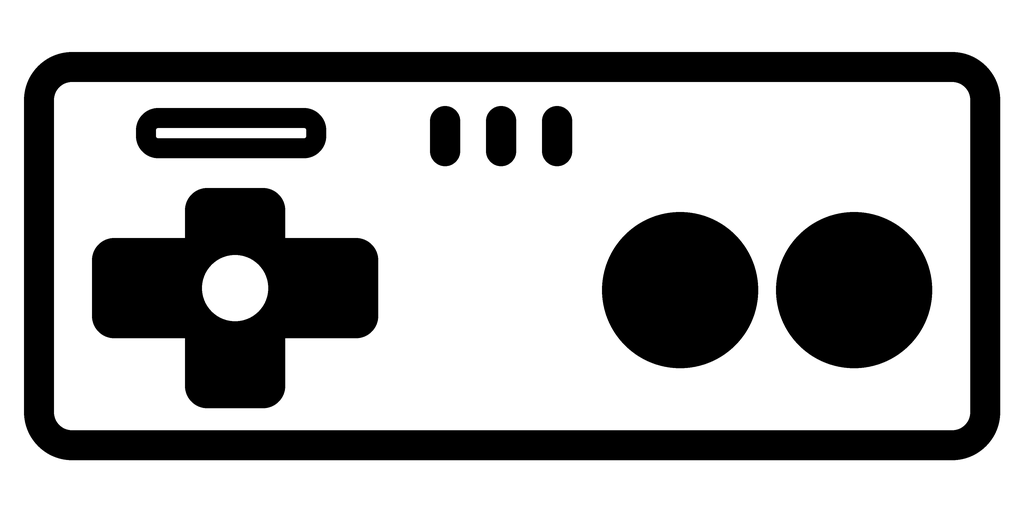
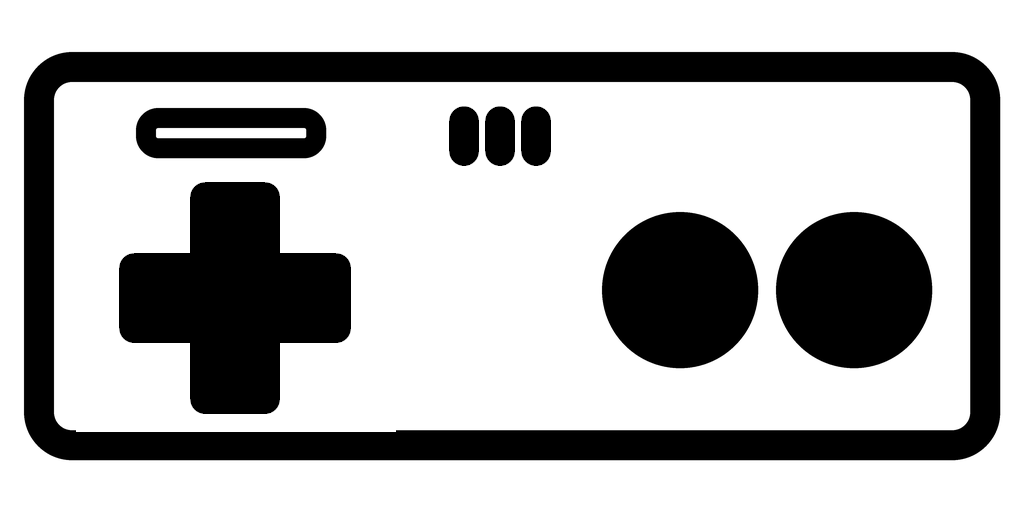
Release v0.5.6

diff --git a/Views/AdvancedModeEditorWindow.xaml b/Views/AdvancedModeEditorWindow.xaml
@@ -2,7 +2,7 @@
         xmlns="http://schemas.microsoft.com/winfx/2006/xaml/presentation"
         xmlns:x="http://schemas.microsoft.com/winfx/2006/xaml"
         xmlns:loc="clr-namespace:PCModeSwitcher.Services"
-        Title="{loc:Loc Editor.Title}" Width="940" Height="760" MinWidth="820" MinHeight="650"
+        Title="{loc:Loc Editor.Title}" Width="940" Height="680" MinWidth="720" MinHeight="560"
         WindowStartupLocation="CenterOwner" ShowInTaskbar="False">
   <Window.Resources><BooleanToVisibilityConverter x:Key="BoolVisibility"/></Window.Resources>
   <Grid Margin="22">
@@ -15,7 +15,36 @@
             <RowDefinition Height="Auto"/><RowDefinition Height="Auto"/><RowDefinition Height="Auto"/><RowDefinition Height="Auto"/>
           </Grid.RowDefinitions>
           <TextBlock Text="{loc:Loc Advanced.ModeName}" Margin="0,9"/><TextBox Grid.Column="1" Text="{Binding ModeName, UpdateSourceTrigger=PropertyChanged}" Margin="0,5"/>
-          <TextBlock Grid.Row="1" Text="{loc:Loc Advanced.Icon}" Margin="0,9"/><TextBox Grid.Row="1" Grid.Column="1" Text="{Binding ModeIcon}" Margin="0,5"/>
+          <TextBlock Grid.Row="1" Text="{loc:Loc Advanced.Icon}" Margin="0,9"/>
+          <Grid Grid.Row="1" Grid.Column="1" Margin="0,5">
+            <TextBox Text="{Binding ModeIcon, UpdateSourceTrigger=PropertyChanged}">
+              <TextBox.Style>
+                <Style TargetType="TextBox">
+                  <Style.Triggers>
+                    <DataTrigger Binding="{Binding HasCustomModeIcon}" Value="True">
+                      <Setter Property="Visibility" Value="Collapsed"/>
+                    </DataTrigger>
+                  </Style.Triggers>
+                </Style>
+              </TextBox.Style>
+            </TextBox>
+            <TextBox IsReadOnly="True" Focusable="False" IsTabStop="False" MinHeight="38">
+              <TextBox.Style>
+                <Style TargetType="TextBox">
+                  <Setter Property="Visibility" Value="Collapsed"/>
+                  <Style.Triggers>
+                    <DataTrigger Binding="{Binding HasCustomModeIcon}" Value="True">
+                      <Setter Property="Visibility" Value="Visible"/>
+                    </DataTrigger>
+                  </Style.Triggers>
+                </Style>
+              </TextBox.Style>
+            </TextBox>
+            <Image Source="{Binding CustomModeIconSource}" Width="72" Height="30"
+                   Margin="6,0,0,0" HorizontalAlignment="Left" VerticalAlignment="Center"
+                   Panel.ZIndex="1" IsHitTestVisible="False" Stretch="Uniform"
+                   Visibility="{Binding HasCustomModeIcon, Converter={StaticResource BoolVisibility}}"/>
+          </Grid>
           <TextBlock Grid.Row="2" Text="{loc:Loc Advanced.Status}" Margin="0,9"/><CheckBox Grid.Row="2" Grid.Column="1" Content="{loc:Loc Advanced.EnableMode}" IsChecked="{Binding IsModeEnabled}" Margin="0,8"/>
           <TextBlock Grid.Row="3" Grid.ColumnSpan="2" Margin="0,22,0,0" TextWrapping="Wrap"
                      Foreground="{StaticResource MutedBrush}" Text="{loc:Loc Advanced.RestoreDescription}"/>

diff --git a/tests/PCModeSwitcher.Tests/Program.cs b/tests/PCModeSwitcher.Tests/Program.cs
@@ -7,10 +7,12 @@ var tests = new List<(string Name, Func<Task> Run)>
 {
     ("既定の9モードと5モード表示", TestDefaultModesAsync),
     ("GAME uses the II-controller image", TestGameModeIconAssetAsync),
-    ("ゲームパッド絵文字をⅡコン表記へ移行", TestGamepadEmojiMigrationAsync),
+    ("ゲームパッド絵文字をⅡコン画像へ移行", TestGamepadEmojiMigrationAsync),
     ("Support link accepts only the trusted HTTPS Ko-fi host", TestSupportLinkValidationAsync),
     ("Tray prioritizes the main screen mode order", TestTrayModeOrderAsync),
     ("リフレッシュレート表示は一方向バインド", TestRefreshRateBindingAsync),
+    ("モード編集で専用アイコン画像を表示", TestAdvancedEditorCustomIconAsync),
+    ("モード編集画面が小さい画面へ収まる", TestAdvancedEditorWindowSizeAsync),
     ("モード編集をキャンセルしても元データを変更しない", TestAdvancedModeEditSessionIsolationAsync),
     ("設定の保存と再読み込み", TestSettingsRoundTripAsync),
     ("保存失敗時にモード追加と編集を巻き戻す", TestModeSaveFailureRollbackAsync),
@@ -104,10 +106,14 @@ static Task TestDefaultModesAsync()
     Assert(settings.Modes.Skip(3).Select(mode => mode.Name)
             .SequenceEqual(["CUSTOM1", "CUSTOM2", "CUSTOM3", "CUSTOM4", "CUSTOM5", "CUSTOM6"]),
         "CUSTOM1〜6の既定名が正しくありません。");
-    Assert(settings.Modes.Take(3).Select(mode => mode.Icon).SequenceEqual(["Ⅱコン", "💼", "🖥"]),
+    Assert(settings.Modes.Take(3).Select(mode => mode.Icon).SequenceEqual([ModeIconKeys.IiController, "💼", "🖥"]),
         "GAME・WORK・NORMALの既定アイコンが変わっています。");
     Assert(settings.Modes.Skip(3).All(mode => mode.Icon.EndsWith('\uFE0E')),
         "CUSTOM1〜6のアイコンがモノクロの文字表示指定になっていません。");
+    Assert(settings.Modes.Skip(3).All(mode =>
+            ModeIconAssets.HasCustomIcon(mode.Id, mode.Icon) &&
+            ModeIconAssets.GetCustomIconSource(mode.Id, mode.Icon) is not null),
+        "CUSTOM1〜6の十二支画像が専用アイコンとして登録されていません。");
     Assert(settings.Modes.All(mode => mode.MicrophoneMute == MicrophoneMuteSetting.NoChange),
         "マイク設定の既定値が『変更しない』ではありません。");
     Assert(settings.Hotkeys.Count == 9 && settings.Hotkeys.All(hotkey => !hotkey.IsConfigured),
@@ -123,6 +129,9 @@ static Task TestGameModeIconAssetAsync()
         "GAME is not registered as an image icon.");
     Assert(ModeIconAssets.GetCustomIconSource("GAME") == "/Assets/GameModeIcon.png",
         "GAME does not reference the II-controller image.");
+    Assert(ModeIconAssets.GetCustomIconSource("user-mode", ModeIconKeys.IiController) ==
+           "/Assets/GameModeIcon.png",
+        "The II-controller icon key does not reference the image asset.");
     return Task.CompletedTask;
 }
 
@@ -144,8 +153,8 @@ static async Task TestGamepadEmojiMigrationAsync()
             "旧ゲームパッドアイコンを含む設定を再読み込みできませんでした。");
         var migrated = loaded.Value ?? throw new InvalidOperationException("移行後の設定データがありません。");
         Assert(migrated.Modes.Take(3).Select(mode => mode.Icon)
-                .SequenceEqual(["Ⅱコン", "Ⅱコン", "前Ⅱコン後"]),
-            "通常・白黒・カラーのゲームパッド絵文字がすべてⅡコン表記へ移行されていません。");
+                .All(icon => icon == ModeIconKeys.IiController),
+            "通常・白黒・カラーのゲームパッド絵文字がすべてⅡコン画像キーへ移行されていません。");
     }
     finally
     {
@@ -207,6 +216,54 @@ static Task TestRefreshRateBindingAsync()
            itemBinding.Contains("Path=.", StringComparison.Ordinal) &&
            itemBinding.Contains("Mode=OneWay", StringComparison.Ordinal),
         "リフレッシュレート項目の値が、パスなしのTwoWayバインドへ戻っています。");
+    return Task.CompletedTask;
+}
+
+static Task TestAdvancedEditorCustomIconAsync()
+{
+    var xamlPath = Path.Combine(
+        AppContext.BaseDirectory,
+        "TestAssets",
+        "AdvancedModeEditorWindow.xaml");
+    var document = System.Xml.Linq.XDocument.Load(xamlPath);
+    var customImage = document.Descendants()
+        .SingleOrDefault(element => element.Name.LocalName == "Image" &&
+            ((string?)element.Attribute("Source"))?.Contains("CustomModeIconSource", StringComparison.Ordinal) == true);
+    var customIconFrame = document.Descendants()
+        .SingleOrDefault(element => element.Name.LocalName == "TextBox" &&
+            (string?)element.Attribute("IsReadOnly") == "True");
+    var hidesIconText = document.Descendants()
+        .Any(element => element.Name.LocalName == "DataTrigger" &&
+            ((string?)element.Attribute("Binding"))?.Contains("HasCustomModeIcon", StringComparison.Ordinal) == true &&
+            element.Descendants().Any(child => child.Name.LocalName == "Setter" &&
+                (string?)child.Attribute("Property") == "Visibility" &&
+                (string?)child.Attribute("Value") == "Collapsed"));
+
+    Assert(customImage is not null &&
+           (string?)customImage.Attribute("Width") == "72" &&
+           (string?)customImage.Attribute("Height") == "30" &&
+           customIconFrame is not null &&
+           (string?)customIconFrame.Attribute("MinHeight") == "38" &&
+           hidesIconText,
+        "モード編集画面が専用アイコンをテキストボックス枠内へ画像表示していません。");
+    return Task.CompletedTask;
+}
+
+static Task TestAdvancedEditorWindowSizeAsync()
+{
+    var xamlPath = Path.Combine(
+        AppContext.BaseDirectory,
+        "TestAssets",
+        "AdvancedModeEditorWindow.xaml");
+    var window = System.Xml.Linq.XDocument.Load(xamlPath).Root
+        ?? throw new InvalidOperationException("モード編集画面のXAMLを読み込めませんでした。");
+    var height = double.Parse((string?)window.Attribute("Height") ?? "0",
+        System.Globalization.CultureInfo.InvariantCulture);
+    var minimumHeight = double.Parse((string?)window.Attribute("MinHeight") ?? "0",
+        System.Globalization.CultureInfo.InvariantCulture);
+
+    Assert(height <= 680 && minimumHeight <= 560,
+        "モード編集画面の固定高さが小さい画面の作業領域を越えます。");
     return Task.CompletedTask;
 }
 

diff --git a/ViewModels/ModeIconAssets.cs b/ViewModels/ModeIconAssets.cs
@@ -1,25 +1,35 @@
+using PCModeSwitcher.Models;
+
 namespace PCModeSwitcher.ViewModels;
 
 public static class ModeIconAssets
 {
-    public static bool HasCustomIcon(string? modeId) =>
-        GetCustomIconSource(modeId) is not null;
+    private const string IiControllerSource = "/Assets/GameModeIcon.png";
 
-    public static string? GetCustomIconSource(string? modeId) => modeId?.ToLowerInvariant() switch
+    public static bool HasCustomIcon(string? modeId, string? icon = null) =>
+        GetCustomIconSource(modeId, icon) is not null;
+
+    public static string? GetCustomIconSource(string? modeId, string? icon = null)
     {
-        "game" => "/Assets/GameModeIcon.png",
-        "custom1" => "/Assets/FluentEmojiHighContrast/Custom1Icon.png",
-        "custom2" => "/Assets/FluentEmojiHighContrast/Custom2Icon.png",
-        "custom3" => "/Assets/FluentEmojiHighContrast/Custom3Icon.png",
-        "custom4" => "/Assets/FluentEmojiHighContrast/Custom4Icon.png",
-        "custom5" => "/Assets/FluentEmojiHighContrast/Custom5Icon.png",
-        "custom6" => "/Assets/FluentEmojiHighContrast/Custom6Icon.png",
-        "custom7" => "/Assets/FluentEmojiHighContrast/Custom7Icon.png",
-        "custom8" => "/Assets/FluentEmojiHighContrast/Custom8Icon.png",
-        "custom9" => "/Assets/FluentEmojiHighContrast/Custom9Icon.png",
-        "custom10" => "/Assets/FluentEmojiHighContrast/Custom10Icon.png",
-        "custom11" => "/Assets/FluentEmojiHighContrast/Custom11Icon.png",
-        "custom12" => "/Assets/FluentEmojiHighContrast/Custom12Icon.png",
-        _ => null
-    };
+        if (ModeIconKeys.IsIiController(icon))
+            return IiControllerSource;
+
+        return modeId?.ToLowerInvariant() switch
+        {
+            "game" => IiControllerSource,
+            "custom1" => "/Assets/FluentEmojiHighContrast/Custom1Icon.png",
+            "custom2" => "/Assets/FluentEmojiHighContrast/Custom2Icon.png",
+            "custom3" => "/Assets/FluentEmojiHighContrast/Custom3Icon.png",
+            "custom4" => "/Assets/FluentEmojiHighContrast/Custom4Icon.png",
+            "custom5" => "/Assets/FluentEmojiHighContrast/Custom5Icon.png",
+            "custom6" => "/Assets/FluentEmojiHighContrast/Custom6Icon.png",
+            "custom7" => "/Assets/FluentEmojiHighContrast/Custom7Icon.png",
+            "custom8" => "/Assets/FluentEmojiHighContrast/Custom8Icon.png",
+            "custom9" => "/Assets/FluentEmojiHighContrast/Custom9Icon.png",
+            "custom10" => "/Assets/FluentEmojiHighContrast/Custom10Icon.png",
+            "custom11" => "/Assets/FluentEmojiHighContrast/Custom11Icon.png",
+            "custom12" => "/Assets/FluentEmojiHighContrast/Custom12Icon.png",
+            _ => null
+        };
+    }
 }

diff --git a/Views/AdvancedModeEditorWindow.xaml.cs b/Views/AdvancedModeEditorWindow.xaml.cs
@@ -17,10 +17,24 @@ public partial class AdvancedModeEditorWindow : Window, INotifyPropertyChanged
     private readonly WindowPlacementService _windowService = new();
     private DisplayModeInfo? _selectedDisplay;
     private uint? _selectedRefreshRate;
+    private string _modeIcon = "●";
     public event PropertyChangedEventHandler? PropertyChanged;
 
     public string ModeName { get; set; }
-    public string ModeIcon { get; set; }
+    public string ModeIcon
+    {
+        get => _modeIcon;
+        set
+        {
+            if (_modeIcon == value) return;
+            _modeIcon = value;
+            Changed();
+            Changed(nameof(HasCustomModeIcon));
+            Changed(nameof(CustomModeIconSource));
+        }
+    }
+    public bool HasCustomModeIcon => ModeIconAssets.HasCustomIcon(_editSession.Draft.Id, ModeIcon);
+    public string? CustomModeIconSource => ModeIconAssets.GetCustomIconSource(_editSession.Draft.Id, ModeIcon);
     public bool IsModeEnabled { get; set; }
     public bool HasBattery { get; }
     public ObservableCollection<TimeoutChoice> TimeoutChoices { get; } = CreateTimeouts();
@@ -92,6 +106,8 @@ public partial class AdvancedModeEditorWindow : Window, INotifyPropertyChanged
         _editSession = new(mode);
         var draft = _editSession.Draft;
         InitializeComponent(); Owner = owner;
+        MaxWidth = SystemParameters.WorkArea.Width;
+        MaxHeight = SystemParameters.WorkArea.Height;
         ModeName = draft.Name; ModeIcon = draft.Icon; IsModeEnabled = draft.IsEnabled; HasBattery = hasBattery;
         PowerPlans = new(plans); ChangePowerPlan = draft.Power.ChangePowerPlan;
         SelectedPowerPlan = PowerPlans.FirstOrDefault(value => value.Id == draft.Power.PowerPlanId || value.Id == draft.PowerPlanId);

diff --git a/Services/SettingsService.cs b/Services/SettingsService.cs
@@ -10,8 +10,6 @@ public sealed class SettingsService
     public const int CurrentSchemaVersion = 2;
     public const int MaximumVisibleModeCount = 5;
 
-    private const string IiControllerIcon = "Ⅱコン";
-
     private const string LegacyCustomModeId = "custom";
     private static readonly string[] BuiltInModeIds =
         ["game", "work", "normal", "custom1", "custom2", "custom3", "custom4", "custom5", "custom6"];
@@ -221,7 +219,7 @@ public sealed class SettingsService
     private static List<PcMode> CreateDefaultModes() =>
     [
         CreateOptimizedMode(
-            "game", "GAME", IiControllerIcon,
+            "game", "GAME", ModeIconKeys.IiController,
             0, 0, 0, 0,
             PowerSettingsService.BalancedSchemeId,
             WindowsPowerMode.BestPerformance,
@@ -435,10 +433,10 @@ public sealed class SettingsService
     private static string NormalizeModeIcon(string? icon)
     {
         var value = string.IsNullOrWhiteSpace(icon) ? "●" : icon;
-        return value
-            .Replace("\U0001F3AE\uFE0E", IiControllerIcon, StringComparison.Ordinal)
-            .Replace("\U0001F3AE\uFE0F", IiControllerIcon, StringComparison.Ordinal)
-            .Replace("\U0001F3AE", IiControllerIcon, StringComparison.Ordinal);
+        return ModeIconKeys.IsIiController(value) ||
+               value.Contains("\U0001F3AE", StringComparison.Ordinal)
+            ? ModeIconKeys.IiController
+            : value;
     }
 
     private async Task<OperationResult> SaveJsonAtomicAsync<T>(string path, T value)

diff --git a/ViewModels/MainViewModel.cs b/ViewModels/MainViewModel.cs
@@ -64,9 +64,18 @@ public sealed class MainViewModel : ObservableObject
         }
     }
     public string CurrentModeName { get => _currentModeName; private set => SetProperty(ref _currentModeName, value); }
-    public string CurrentModeIcon { get => _currentModeIcon; private set => SetProperty(ref _currentModeIcon, value); }
-    public bool CurrentModeHasCustomIcon => ModeIconAssets.HasCustomIcon(CurrentModeId);
-    public string? CurrentModeCustomIconSource => ModeIconAssets.GetCustomIconSource(CurrentModeId);
+    public string CurrentModeIcon
+    {
+        get => _currentModeIcon;
+        private set
+        {
+            if (!SetProperty(ref _currentModeIcon, value)) return;
+            OnPropertyChanged(nameof(CurrentModeHasCustomIcon));
+            OnPropertyChanged(nameof(CurrentModeCustomIconSource));
+        }
+    }
+    public bool CurrentModeHasCustomIcon => ModeIconAssets.HasCustomIcon(CurrentModeId, CurrentModeIcon);
+    public string? CurrentModeCustomIconSource => ModeIconAssets.GetCustomIconSource(CurrentModeId, CurrentModeIcon);
     public bool? IsMicrophoneOn
     {
         get => _isMicrophoneOn;

diff --git a/Services/LocalizationStrings.cs b/Services/LocalizationStrings.cs
@@ -89,7 +89,7 @@ internal static partial class LocalizationStrings
         ("Advanced.Apps", "アプリ", "Apps", "應用程式"),
         ("Advanced.Windows", "ウィンドウ", "Windows", "視窗"),
         ("Advanced.ModeName", "モード名", "Mode name", "模式名稱"),
-        ("Advanced.Icon", "アイコン（絵文字）", "Icon (emoji)", "圖示（表情符號）"),
+        ("Advanced.Icon", "アイコン", "Icon", "圖示"),
         ("Advanced.Status", "状態", "Status", "狀態"),
         ("Advanced.EnableMode", "このモードを有効にする", "Enable this mode", "啟用此模式"),
         ("Advanced.RestoreDescription", "適用前に現在状態を記録し、このアプリが変更した項目だけを［元に戻す］で可能な範囲で元の状態へ戻します。", "The app records the current state before applying a mode. Restore attempts to return only settings changed by this app.", "套用前會記錄目前狀態；［還原］會盡可能只還原本應用程式變更的項目。"),

diff --git a/App.xaml.cs b/App.xaml.cs
@@ -257,7 +257,7 @@ public partial class App : Wpf.Application
         foreach (var modeId in modeOrder)
         {
             var mode = modesById[modeId];
-            var modeIcon = LoadTrayModeImage(modeId) ?? RenderTrayModeIcon(mode.Icon);
+            var modeIcon = LoadTrayModeImage(modeId, mode.Icon) ?? RenderTrayModeIcon(mode.Icon);
             var modeItem = new Forms.ToolStripMenuItem(mode.Name)
             {
                 CheckOnClick = false,
@@ -274,9 +274,9 @@ public partial class App : Wpf.Application
         }
     }
 
-    private static System.Drawing.Image? LoadTrayModeImage(string modeId)
+    private static System.Drawing.Image? LoadTrayModeImage(string modeId, string icon)
     {
-        var source = ModeIconAssets.GetCustomIconSource(modeId);
+        var source = ModeIconAssets.GetCustomIconSource(modeId, icon);
         if (source is null)
         {
             return null;

diff --git a/ViewModels/ModeCardViewModel.cs b/ViewModels/ModeCardViewModel.cs
@@ -26,8 +26,8 @@ public sealed class ModeCardViewModel : ObservableObject
     public bool HasBattery => _hasBattery;
     public string Name => _mode.Name;
     public string Icon => _mode.Icon;
-    public bool HasCustomIcon => ModeIconAssets.HasCustomIcon(_mode.Id);
-    public string? CustomIconSource => ModeIconAssets.GetCustomIconSource(_mode.Id);
+    public bool HasCustomIcon => ModeIconAssets.HasCustomIcon(_mode.Id, _mode.Icon);
+    public string? CustomIconSource => ModeIconAssets.GetCustomIconSource(_mode.Id, _mode.Icon);
     public string DisplaySummary =>
         FormatSummary(
             HasStructuredPower && _mode.Power.DisplayTimeoutAcSeconds is null ? null : _mode.DisplayTimeoutAc,

diff --git a/Views/SettingsWindow.xaml.cs b/Views/SettingsWindow.xaml.cs
@@ -325,8 +325,8 @@ public sealed class ModeSettingsItem : ObservableObject
     public string Name { get; }
     public string Icon { get; }
     public bool CanDelete { get; }
-    public bool HasCustomIcon => ModeIconAssets.HasCustomIcon(Id);
-    public string? CustomIconSource => ModeIconAssets.GetCustomIconSource(Id);
+    public bool HasCustomIcon => ModeIconAssets.HasCustomIcon(Id, Icon);
+    public string? CustomIconSource => ModeIconAssets.GetCustomIconSource(Id, Icon);
     public bool IsVisible
     {
         get => _isVisible;

diff --git a/Models/ModeIconKeys.cs b/Models/ModeIconKeys.cs
@@ -1,0 +1,9 @@
+namespace PCModeSwitcher.Models;
+
+public static class ModeIconKeys
+{
+    public const string IiController = "ii-controller";
+
+    public static bool IsIiController(string? icon) =>
+        string.Equals(icon?.Trim(), IiController, StringComparison.Ordinal);
+}

diff --git a/docs/RELEASE_NOTES_0.5.6.md b/docs/RELEASE_NOTES_0.5.6.md
@@ -1,0 +1,14 @@
+# PC Mode Switcher v0.5.6
+
+## 変更内容
+
+- 対象モニターを選択したときに、表示設定画面が連続してエラーを表示した後に終了する問題を修正
+- モード編集をキャンセルしたときに、編集中の内容が元の設定へ残らないよう修正
+- GAMEモードのⅡコンを専用画像として表示し、メイン画面・設定画面・モード編集画面・ショートカット・通知領域で統一
+- Ⅱコンの十字キーとマイク穴を整え、アイコンの見た目を改善
+- 追加モードの十二支アイコンをモード編集画面でも画像として表示し、枠内へ収まるよう調整
+- モード編集画面を小さい作業領域でも開きやすいサイズへ調整
+
+## 更新方法
+
+v0.5.5から実行ファイルを置き換えるだけで更新できます。保存済みのモード設定はそのまま引き継がれます。.NETの追加インストールは不要です。
